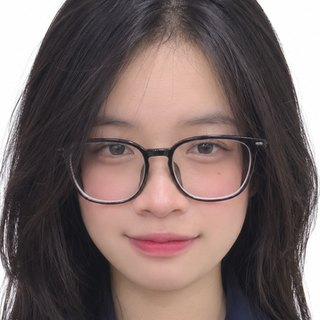
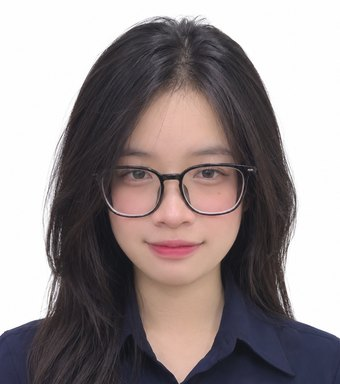
trang.pod: wider photo crop; mini player says 'play some music'
Claude-Session: https://claude.ai/code/session_01NmR6uK76PFpRe4fKHH3cva

diff --git a/zine/zine.css b/zine/zine.css
@@ -251,7 +251,7 @@ mark { background: var(--lime); color: var(--ink); padding: 0 3px; }
 .pod { position: relative; display: block; width: 150px; height: 170px; margin-top: -6px; perspective: 600px; }
 .pod-in, .pod-lid { position: absolute; inset: 0; border-radius: 50% 50% 46% 46% / 56% 56% 44% 44%; border: 5px solid var(--ink); }
 .pod-in { background: var(--ink); display: grid; place-items: center; overflow: hidden; }
-.pod-in img { position: absolute; inset: 0; width: 100%; height: 100%; object-fit: cover; object-position: 50% 30%; }   /* the photo fills the whole egg */
+.pod-in img { position: absolute; inset: 0; width: 100%; height: 100%; object-fit: cover; object-position: 50% 40%; }   /* the photo fills the whole egg */
 .pix-face { width: 100%; height: 100%; background:
     radial-gradient(circle at 34% 44%, var(--ink) 0 6px, transparent 7px), radial-gradient(circle at 66% 44%, var(--ink) 0 6px, transparent 7px),
     radial-gradient(circle at 28% 62%, #f29a9a 0 7px, transparent 8px), radial-gradient(circle at 72% 62%, #f29a9a 0 7px, transparent 8px),

diff --git a/zine/index.html b/zine/index.html
@@ -156,7 +156,7 @@
   <div class="mini-list" id="mini-list" hidden><p class="mini-lh">&gt;&gt; BANGER MUSIC !!</p><ol id="tracks"></ol></div>
   <div class="mini-bar">
     <span class="mini-ico" aria-hidden="true">♪</span>
-    <span class="mini-now" id="now">music off</span>
+    <span class="mini-now" id="now">play some music ♪</span>
     <button type="button" data-m="prev" aria-label="Previous song">⏮</button>
     <button type="button" data-m="play" class="mini-play" aria-label="Play">▶</button>
     <button type="button" data-m="next" aria-label="Next song">⏭</button>

diff --git a/zine/zine.js b/zine/zine.js
@@ -235,7 +235,7 @@
   function paint() {
     const on = !bgm.paused;
     mini.classList.toggle("on", on);
-    $("#now").textContent = bgm.src ? `${TR[cur].title} — ${TR[cur].artist}` : "music off";
+    $("#now").textContent = bgm.src ? `${TR[cur].title} — ${TR[cur].artist}` : "play some music ♪";
     const p = mini.querySelector(".mini-play"); p.textContent = on ? "❚❚" : "▶"; p.setAttribute("aria-label", on ? "Pause" : "Play");
     mlist.querySelectorAll("li").forEach((li, k) => li.classList.toggle("on", k === cur && !!bgm.src));
   }
